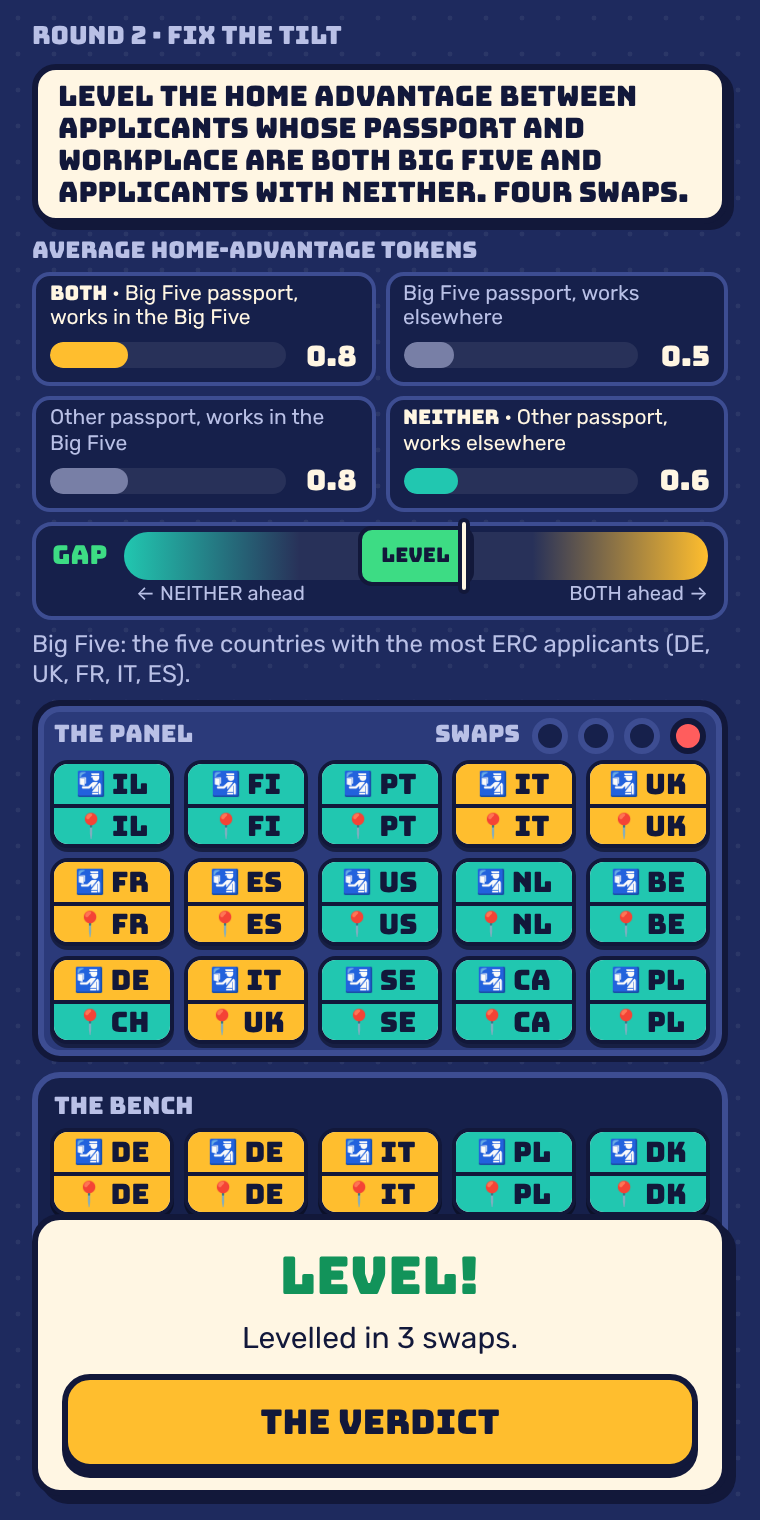
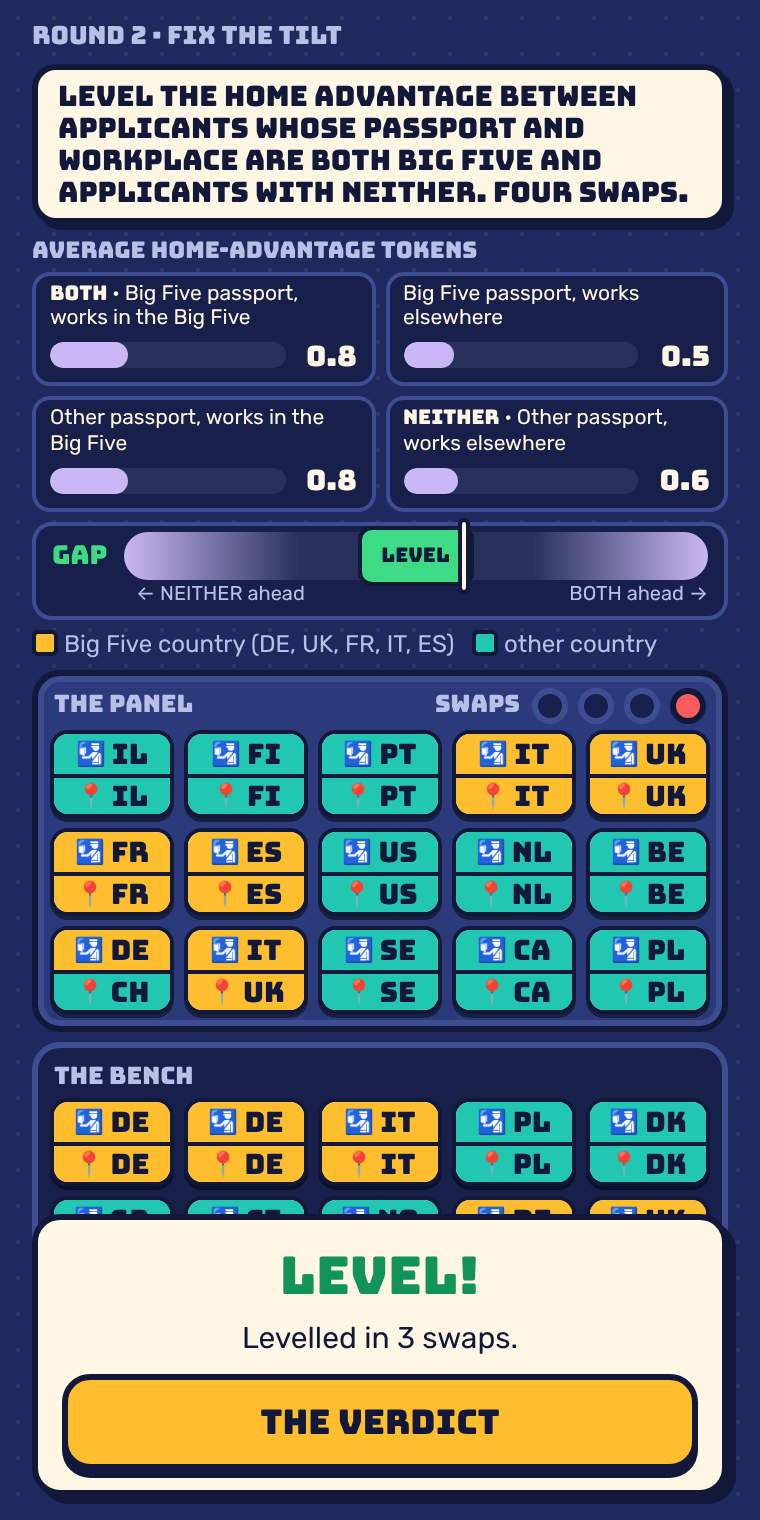
Home Judges, revision 4: the colour key rule
Yellow and teal mean Big Five / other country only. The key appears on every
screen that shows both colours (Round 1, Round 2) and nowhere else, replacing the
definition sentence there. Start screen: no key, no asterisk, the Big Five
introduced in plain words in the Round 2 line. Round 1 aim: Seat the 15 judges.
All four applicant bars one colour (lilac), the GAP meter's ends likewise.

Claude-Session: https://claude.ai/code/session_018niUhxY9ZsBGHUKZeJtQDn

diff --git a/homophily/home-judges.html b/homophily/home-judges.html
@@ -10,7 +10,7 @@
[1 lines of base64/hex data omitted]
 :root {
   --board: #1e2a5e; --board2: #16204b; --felt: #2b3a7a; --line: #3d4d92;
-  --big: #ffbe2e; --oth: #21c7b0; --star: #ff5d5d; --chalk: #fff6e3; --ok: #3ddc84;
+  --big: #ffbe2e; --oth: #21c7b0; --star: #ff5d5d; --chalk: #fff6e3; --ok: #3ddc84; --bar: #c9b8f5; /* --bar: the four applicant bars; yellow and teal are country colours only */
   --ink: #12183a; --dim: #b9c0e6;
   --emoji: 'Apple Color Emoji', 'Segoe UI Emoji', 'Noto Color Emoji', sans-serif;
 }
@@ -70,16 +70,14 @@ b { font-weight: 700; }
 .grow2 { display: flex; align-items: center; gap: 6px; margin-top: 3px; }
 .gtrack { position: relative; flex: 1; height: 13px; border-radius: 7px; background: rgba(255,255,255,.08); overflow: hidden; }
 .gfill { position: absolute; left: 0; top: 0; bottom: 0; width: 0; border-radius: 7px; transition: width .6s cubic-bezier(.3,1.3,.5,1); }
-.gcell.both .gfill { background: var(--big); } .gcell.neither .gfill { background: var(--oth); } .gcell.mixed .gfill { background: var(--dim); opacity: .55; }
-.gcell.mixed .gl { color: var(--dim); }
+.gcell .gfill { background: var(--bar); }
 .gcell .gk { font-family: 'Bungee', sans-serif; font-size: 10px; color: var(--chalk); }
-.gcell.mixed .gk { color: var(--dim); }
 .gnum { font-family: 'Bungee', sans-serif; font-size: 14px; min-width: 30px; text-align: right; }
 /* the GAP meter */
 .meter { background: var(--board2); border: 2px solid var(--line); border-radius: 10px; padding: 4px 8px 4px; }
 .mrow { display: flex; align-items: center; gap: 8px; }
 .mlab { font-family: 'Bungee', sans-serif; font-size: 13px; }
-.mtrack { position: relative; flex: 1; height: 24px; border-radius: 12px; background: linear-gradient(90deg, var(--oth) 0%, rgba(255,255,255,.08) 30%, rgba(255,255,255,.08) 70%, var(--big) 100%); }
+.mtrack { position: relative; flex: 1; height: 24px; border-radius: 12px; background: linear-gradient(90deg, var(--bar) 0%, rgba(255,255,255,.08) 30%, rgba(255,255,255,.08) 70%, var(--bar) 100%); } /* the ends are the bar colour, not the country colours */
 .mzone { position: absolute; top: -3px; bottom: -3px; background: var(--ok); border: 2px solid var(--ink); border-radius: 7px; display: flex; align-items: center; justify-content: center;
   font-family: 'Bungee', sans-serif; font-size: 10px; color: var(--ink); }
 .mmark { position: absolute; top: -7px; width: 6px; height: 38px; margin-left: -3px; background: var(--chalk); border: 2px solid var(--ink); border-radius: 3px; transition: left .6s cubic-bezier(.3,1.3,.5,1); z-index: 2; }
@@ -104,8 +102,9 @@ b { font-weight: 700; }
 /* Round 2 carries the most: tighter spacing so the board stays one viewport at 380 × 760 */
 #s-r2 { gap: 5px; } #s-r2 .aim { padding: 5px 10px; line-height: 1.15; } #s-r2 .jc { min-height: 44px; } #s-r2 .box { padding: 6px; }
 #s-r2 .boxhead { margin-bottom: 3px; } #s-r2 .gcell .gl { min-height: 0; } #s-r2 .gcell { padding: 3px 7px 4px; } #s-r2 .meter { padding: 3px 8px; }
-/* the Big Five definition (start screen: legend with colour key; elsewhere: the same words, no key) */
+/* .key: the colour key, on every screen that shows both country colours and nowhere else; .def: the Big Five sentence, on screens that say Big Five but show no key */
 .def { font-size: 12px; color: var(--dim); line-height: 1.25; }
+.key { font-size: 12px; color: var(--dim); line-height: 1.25; }
 .sw { display: inline-block; width: 13px; height: 13px; border-radius: 3px; border: 2px solid var(--ink); vertical-align: -2px; margin: 0 3px 0 0; }
 .sw.big { background: var(--big); } .sw.oth { background: var(--oth); }
 .about p { font-size: 12.5px; line-height: 1.3; margin: 0 0 6px; }
@@ -119,12 +118,11 @@ b { font-weight: 700; }
   <h1>HOME JUDGES</h1>
   <div class="aim">You choose a panel of 15 judges for ERC-style grant reviews.</div>
   <p><b>Round 1:</b> Seat 15 judges. See which applicants receive more home advantage.</p>
-  <p><b>Round 2:</b> Fix a tilted panel. Level the home advantage between applicants whose passport and workplace are both Big Five* and applicants with neither. Four swaps.</p>
+  <p><b>Round 2:</b> Fix a tilted panel. Level the home advantage between applicants whose passport and workplace are both in Germany, the UK, France, Italy or Spain (the "Big Five", the five countries with the most ERC applicants) and applicants with neither. Four swaps.</p>
   <div class="example" id="ex1"></div>
   <div class="example" id="ex2"></div>
   <p class="small dim">🛂 = passport, 📍 = where they work.</p>
   <div class="grow"></div>
-  <p class="def" id="legend">* Big Five: the five countries with the most ERC applicants (DE, UK, FR, IT, ES).<br><span class="sw big"></span>Big Five country &nbsp; <span class="sw oth"></span>other country</p>
   <button class="btn wide" id="b-play">PLAY</button>
   <button class="btn chalk sm wide" id="b-about0">ABOUT</button>
 </section>
@@ -146,7 +144,8 @@ b { font-weight: 700; }
 <!-- ROUND 1 -->
 <section class="screen" id="s-r1">
   <div class="tag">ROUND 1 · YOUR PANEL</div>
-  <div class="aim" id="aim-r1">Seat the 15 judges you think are fair.</div>
+  <div class="aim" id="aim-r1">Seat the 15 judges.</div>
+  <p class="key"><span class="sw big"></span>Big Five country (DE, UK, FR, IT, ES) &nbsp; <span class="sw oth"></span>other country</p>
   <div class="box"><div class="boxhead"><span>THE PANEL</span><span class="cnt" id="cnt1"></span></div><div class="grid g5" id="table1"></div></div>
   <div id="r1-pick">
     <div class="boxhead" style="margin-top:2px"><span>CANDIDATES · TAP TO SEAT</span></div>
@@ -156,8 +155,7 @@ b { font-weight: 700; }
     <div class="ghead">AVERAGE HOME-ADVANTAGE TOKENS</div>
     <div id="bars1"></div>
     <p class="small dim" style="margin:5px 0">Each bar is one applicant group: passport from the Big Five or elsewhere, crossed with workplace in the Big Five or elsewhere. Higher means more home advantage.</p>
-    <p id="r1-result" style="margin-bottom:6px"></p>
-    <p class="def" style="margin-bottom:8px">Big Five: the five countries with the most ERC applicants (DE, UK, FR, IT, ES).</p>
+    <p id="r1-result" style="margin-bottom:8px"></p>
     <button class="btn wide" id="b-r2">ROUND 2</button>
   </div>
 </section>
@@ -168,7 +166,7 @@ b { font-weight: 700; }
   <div class="aim">Level the home advantage between applicants whose passport and workplace are both Big Five and applicants with neither. Four swaps.</div>
   <div><div class="ghead">AVERAGE HOME-ADVANTAGE TOKENS</div><div id="bars2"></div></div>
   <div class="meter" id="meter"></div>
-  <p class="def">Big Five: the five countries with the most ERC applicants (DE, UK, FR, IT, ES).</p>
+  <p class="key"><span class="sw big"></span>Big Five country (DE, UK, FR, IT, ES) &nbsp; <span class="sw oth"></span>other country</p>
   <div class="instr" id="instr">Tap a judge in the panel, then one on the bench, to swap them.</div>
   <div class="box" id="tablebox2"><div class="boxhead"><span>THE PANEL</span><span class="row" style="gap:6px"><span>SWAPS</span><span class="pips" id="pips"></span></span></div><div class="grid g5" id="table2"></div></div>
   <div class="box bench" id="benchbox"><div class="boxhead"><span>THE BENCH</span></div><div class="grid g5" id="bench"></div></div>
@@ -433,9 +431,8 @@ if (typeof module !== 'undefined') module.exports = MECH;
   const LAB = { bigP_bigW: 'Big Five passport, works in the Big Five', bigP_othW: 'Big Five passport, works elsewhere',
     othP_bigW: 'Other passport, works in the Big Five', othP_othW: 'Other passport, works elsewhere' };
   const KEY = { bigP_bigW: 'BOTH', bigP_othW: '', othP_bigW: '', othP_othW: 'NEITHER' };
-  const KIND = { bigP_bigW: 'both', bigP_othW: 'mixed', othP_bigW: 'mixed', othP_othW: 'neither' };
   function buildBars(el) {
-    el.innerHTML = '<div class="ggrid">' + M.CELLS.map(k => `<div class="gcell ${KIND[k]}" data-cell="${k}"><div class="gl">${KEY[k] ? `<span class="gk">${KEY[k]}</span> · ` : ''}${LAB[k]}</div>` +
+    el.innerHTML = '<div class="ggrid">' + M.CELLS.map(k => `<div class="gcell" data-cell="${k}"><div class="gl">${KEY[k] ? `<span class="gk">${KEY[k]}</span> · ` : ''}${LAB[k]}</div>` +
       `<div class="grow2"><div class="gtrack"><div class="gfill"></div></div><div class="gnum"></div></div></div>`).join('') + '</div>';
   }
   function setBars(el, e) {

diff --git a/homophily/template.html b/homophily/template.html
@@ -10,7 +10,7 @@
 @font-face { font-family: 'Rubik'; src: url(data:font/woff2;base64,/*__FONT_RUBIK__*/) format('woff2'); font-weight: 300 900; font-display: block; }
 :root {
   --board: #1e2a5e; --board2: #16204b; --felt: #2b3a7a; --line: #3d4d92;
-  --big: #ffbe2e; --oth: #21c7b0; --star: #ff5d5d; --chalk: #fff6e3; --ok: #3ddc84;
+  --big: #ffbe2e; --oth: #21c7b0; --star: #ff5d5d; --chalk: #fff6e3; --ok: #3ddc84; --bar: #c9b8f5; /* --bar: the four applicant bars; yellow and teal are country colours only */
   --ink: #12183a; --dim: #b9c0e6;
   --emoji: 'Apple Color Emoji', 'Segoe UI Emoji', 'Noto Color Emoji', sans-serif;
 }
@@ -70,16 +70,14 @@ b { font-weight: 700; }
 .grow2 { display: flex; align-items: center; gap: 6px; margin-top: 3px; }
 .gtrack { position: relative; flex: 1; height: 13px; border-radius: 7px; background: rgba(255,255,255,.08); overflow: hidden; }
 .gfill { position: absolute; left: 0; top: 0; bottom: 0; width: 0; border-radius: 7px; transition: width .6s cubic-bezier(.3,1.3,.5,1); }
-.gcell.both .gfill { background: var(--big); } .gcell.neither .gfill { background: var(--oth); } .gcell.mixed .gfill { background: var(--dim); opacity: .55; }
-.gcell.mixed .gl { color: var(--dim); }
+.gcell .gfill { background: var(--bar); }
 .gcell .gk { font-family: 'Bungee', sans-serif; font-size: 10px; color: var(--chalk); }
-.gcell.mixed .gk { color: var(--dim); }
 .gnum { font-family: 'Bungee', sans-serif; font-size: 14px; min-width: 30px; text-align: right; }
 /* the GAP meter */
 .meter { background: var(--board2); border: 2px solid var(--line); border-radius: 10px; padding: 4px 8px 4px; }
 .mrow { display: flex; align-items: center; gap: 8px; }
 .mlab { font-family: 'Bungee', sans-serif; font-size: 13px; }
-.mtrack { position: relative; flex: 1; height: 24px; border-radius: 12px; background: linear-gradient(90deg, var(--oth) 0%, rgba(255,255,255,.08) 30%, rgba(255,255,255,.08) 70%, var(--big) 100%); }
+.mtrack { position: relative; flex: 1; height: 24px; border-radius: 12px; background: linear-gradient(90deg, var(--bar) 0%, rgba(255,255,255,.08) 30%, rgba(255,255,255,.08) 70%, var(--bar) 100%); } /* the ends are the bar colour, not the country colours */
 .mzone { position: absolute; top: -3px; bottom: -3px; background: var(--ok); border: 2px solid var(--ink); border-radius: 7px; display: flex; align-items: center; justify-content: center;
   font-family: 'Bungee', sans-serif; font-size: 10px; color: var(--ink); }
 .mmark { position: absolute; top: -7px; width: 6px; height: 38px; margin-left: -3px; background: var(--chalk); border: 2px solid var(--ink); border-radius: 3px; transition: left .6s cubic-bezier(.3,1.3,.5,1); z-index: 2; }
@@ -104,8 +102,9 @@ b { font-weight: 700; }
 /* Round 2 carries the most: tighter spacing so the board stays one viewport at 380 × 760 */
 #s-r2 { gap: 5px; } #s-r2 .aim { padding: 5px 10px; line-height: 1.15; } #s-r2 .jc { min-height: 44px; } #s-r2 .box { padding: 6px; }
 #s-r2 .boxhead { margin-bottom: 3px; } #s-r2 .gcell .gl { min-height: 0; } #s-r2 .gcell { padding: 3px 7px 4px; } #s-r2 .meter { padding: 3px 8px; }
-/* the Big Five definition (start screen: legend with colour key; elsewhere: the same words, no key) */
+/* .key: the colour key, on every screen that shows both country colours and nowhere else; .def: the Big Five sentence, on screens that say Big Five but show no key */
 .def { font-size: 12px; color: var(--dim); line-height: 1.25; }
+.key { font-size: 12px; color: var(--dim); line-height: 1.25; }
 .sw { display: inline-block; width: 13px; height: 13px; border-radius: 3px; border: 2px solid var(--ink); vertical-align: -2px; margin: 0 3px 0 0; }
 .sw.big { background: var(--big); } .sw.oth { background: var(--oth); }
 .about p { font-size: 12.5px; line-height: 1.3; margin: 0 0 6px; }
@@ -119,12 +118,11 @@ b { font-weight: 700; }
   <h1>HOME JUDGES</h1>
   <div class="aim">You choose a panel of 15 judges for ERC-style grant reviews.</div>
   <p><b>Round 1:</b> Seat 15 judges. See which applicants receive more home advantage.</p>
-  <p><b>Round 2:</b> Fix a tilted panel. Level the home advantage between applicants whose passport and workplace are both Big Five* and applicants with neither. Four swaps.</p>
+  <p><b>Round 2:</b> Fix a tilted panel. Level the home advantage between applicants whose passport and workplace are both in Germany, the UK, France, Italy or Spain (the "Big Five", the five countries with the most ERC applicants) and applicants with neither. Four swaps.</p>
   <div class="example" id="ex1"></div>
   <div class="example" id="ex2"></div>
   <p class="small dim">🛂 = passport, 📍 = where they work.</p>
   <div class="grow"></div>
-  <p class="def" id="legend">* Big Five: the five countries with the most ERC applicants (DE, UK, FR, IT, ES).<br><span class="sw big"></span>Big Five country &nbsp; <span class="sw oth"></span>other country</p>
   <button class="btn wide" id="b-play">PLAY</button>
   <button class="btn chalk sm wide" id="b-about0">ABOUT</button>
 </section>
@@ -146,7 +144,8 @@ b { font-weight: 700; }
 <!-- ROUND 1 -->
 <section class="screen" id="s-r1">
   <div class="tag">ROUND 1 · YOUR PANEL</div>
-  <div class="aim" id="aim-r1">Seat the 15 judges you think are fair.</div>
+  <div class="aim" id="aim-r1">Seat the 15 judges.</div>
+  <p class="key"><span class="sw big"></span>Big Five country (DE, UK, FR, IT, ES) &nbsp; <span class="sw oth"></span>other country</p>
   <div class="box"><div class="boxhead"><span>THE PANEL</span><span class="cnt" id="cnt1"></span></div><div class="grid g5" id="table1"></div></div>
   <div id="r1-pick">
     <div class="boxhead" style="margin-top:2px"><span>CANDIDATES · TAP TO SEAT</span></div>
@@ -156,8 +155,7 @@ b { font-weight: 700; }
     <div class="ghead">AVERAGE HOME-ADVANTAGE TOKENS</div>
     <div id="bars1"></div>
     <p class="small dim" style="margin:5px 0">Each bar is one applicant group: passport from the Big Five or elsewhere, crossed with workplace in the Big Five or elsewhere. Higher means more home advantage.</p>
-    <p id="r1-result" style="margin-bottom:6px"></p>
-    <p class="def" style="margin-bottom:8px">Big Five: the five countries with the most ERC applicants (DE, UK, FR, IT, ES).</p>
+    <p id="r1-result" style="margin-bottom:8px"></p>
     <button class="btn wide" id="b-r2">ROUND 2</button>
   </div>
 </section>
@@ -168,7 +166,7 @@ b { font-weight: 700; }
   <div class="aim">Level the home advantage between applicants whose passport and workplace are both Big Five and applicants with neither. Four swaps.</div>
   <div><div class="ghead">AVERAGE HOME-ADVANTAGE TOKENS</div><div id="bars2"></div></div>
   <div class="meter" id="meter"></div>
-  <p class="def">Big Five: the five countries with the most ERC applicants (DE, UK, FR, IT, ES).</p>
+  <p class="key"><span class="sw big"></span>Big Five country (DE, UK, FR, IT, ES) &nbsp; <span class="sw oth"></span>other country</p>
   <div class="instr" id="instr">Tap a judge in the panel, then one on the bench, to swap them.</div>
   <div class="box" id="tablebox2"><div class="boxhead"><span>THE PANEL</span><span class="row" style="gap:6px"><span>SWAPS</span><span class="pips" id="pips"></span></span></div><div class="grid g5" id="table2"></div></div>
   <div class="box bench" id="benchbox"><div class="boxhead"><span>THE BENCH</span></div><div class="grid g5" id="bench"></div></div>
@@ -232,9 +230,8 @@ b { font-weight: 700; }
   const LAB = { bigP_bigW: 'Big Five passport, works in the Big Five', bigP_othW: 'Big Five passport, works elsewhere',
     othP_bigW: 'Other passport, works in the Big Five', othP_othW: 'Other passport, works elsewhere' };
   const KEY = { bigP_bigW: 'BOTH', bigP_othW: '', othP_bigW: '', othP_othW: 'NEITHER' };
-  const KIND = { bigP_bigW: 'both', bigP_othW: 'mixed', othP_bigW: 'mixed', othP_othW: 'neither' };
   function buildBars(el) {
-    el.innerHTML = '<div class="ggrid">' + M.CELLS.map(k => `<div class="gcell ${KIND[k]}" data-cell="${k}"><div class="gl">${KEY[k] ? `<span class="gk">${KEY[k]}</span> · ` : ''}${LAB[k]}</div>` +
+    el.innerHTML = '<div class="ggrid">' + M.CELLS.map(k => `<div class="gcell" data-cell="${k}"><div class="gl">${KEY[k] ? `<span class="gk">${KEY[k]}</span> · ` : ''}${LAB[k]}</div>` +
       `<div class="grow2"><div class="gtrack"><div class="gfill"></div></div><div class="gnum"></div></div></div>`).join('') + '</div>';
   }
   function setBars(el, e) {

diff --git a/homophily/session-test.js b/homophily/session-test.js
@@ -29,7 +29,6 @@ const W = 380, H = 760;
   console.log('  badge label: ' + await p.$eval('#ex1 .jc', e => e.getAttribute('aria-label')));
   console.log('  help screen or ? button present:', await p.$$eval('#s-help, .q, [data-help]', x => x.length));
   // iteration 3: the legend, the colours, the citation and the definition on every screen that says "Big Five"
-  console.log('  legend: ' + await txt('#legend'));
   const bg = async (pp, ww) => { const c = await p.evaluate(([pp, ww]) => { const b = document.createElement('button'); b.className = 'jc'; const M2 = window.MECH; const grp = c => M2.isBig(c) ? 'big' : 'oth'; return grp(pp) + '/' + grp(ww); }, [pp, ww]); return c; };
   const colourOf = async (pp, ww) => p.evaluate(([pp, ww]) => { const e = document.querySelector(`.jc[data-p="${pp}"][data-w="${ww}"] .ln.p`); return e && getComputedStyle(e).backgroundColor; }, [pp, ww]);
   const checkColours = async () => {
@@ -38,13 +37,23 @@ const W = 380, H = 760;
     console.log(`  badge colours: US ${us} | CA ${ca} | NL ${nl} | DE ${de} -> ${okc ? 'US and CA coloured like other non-Big-Five countries' : 'MISMATCH'}`);
     if (!okc) errs.push('badge colours: US/CA not coloured like other non-Big-Five countries');
   };
+  // revision 4: the colour key on every screen that shows both country colours and nowhere else; where the key is shown,
+  // no "Big Five: ..." sentence; where a screen says Big Five without the key, the sentence (or, on the start screen, the
+  // plain-words introduction); the four bars one colour, neither yellow nor teal
   const checkDef = async name => {
     const r = await p.evaluate(() => { const s = document.querySelector('.screen.on'); const txt = s.innerText; const says = /Big Five/.test(txt);
-      const def = /Big Five: the five countries with the most ERC applicants \(DE, UK, FR, IT, ES\)/.test(txt); return { says, def, star: /Big Five\*/.test(txt), key: !!s.querySelector('.sw') }; });
-    console.log(`  [${name}] says "Big Five": ${r.says} | definition present: ${r.def} | asterisk: ${r.star} | colour key: ${r.key}`);
-    if (r.says && !r.def) errs.push(name + ': mentions the Big Five without the definition');
-    if (name !== 'start' && (r.star || r.key)) errs.push(name + ': asterisk or colour key outside the start screen');
-    if (name === 'start' && !(r.star && r.key)) errs.push('start: asterisk or colour key missing');
+      const cols = new Set([...s.querySelectorAll('.jc .ln.p, .jc .ln.w')].filter(e => e.offsetParent).map(e => getComputedStyle(e).backgroundColor));
+      const fills = [...s.querySelectorAll('.gfill')].filter(e => e.offsetParent).map(e => getComputedStyle(e).backgroundColor);
+      const big = getComputedStyle(document.documentElement).getPropertyValue('--big').trim(), oth = getComputedStyle(document.documentElement).getPropertyValue('--oth').trim();
+      const hex = h => { const n = parseInt(h.slice(1), 16); return `rgb(${n >> 16}, ${(n >> 8) & 255}, ${n & 255})`; };
+      return { says, def: /Big Five: the five countries with the most ERC applicants/.test(txt), intro: /the "Big Five", the five countries with the most ERC applicants/.test(txt),
+        star: /Big Five\*/.test(txt), key: !!s.querySelector('.key .sw'), bothColours: cols.size >= 2, fills: [...new Set(fills)], bigRgb: hex(big), othRgb: hex(oth) }; });
+    console.log(`  [${name}] says "Big Five": ${r.says} | both country colours on screen: ${r.bothColours} | colour key: ${r.key} | definition: ${r.def} | intro: ${r.intro} | asterisk: ${r.star}${r.fills.length ? ' | bar fills: ' + r.fills.join(' ') : ''}`);
+    if (r.bothColours !== r.key) errs.push(name + ': the colour key must be shown exactly when both country colours are');
+    if (r.key && r.def) errs.push(name + ': the definition sentence next to the key');
+    if (r.says && !r.key && !r.def && !r.intro) errs.push(name + ': says Big Five without the key, the sentence or the introduction');
+    if (r.star) errs.push(name + ': asterisk');
+    if (r.fills.length > 1 || r.fills.some(c => c === r.bigRgb || c === r.othRgb)) errs.push(name + ': bars not one colour, or yellow/teal');
   };
   await checkDef('start');
   const h = require('fs').readFileSync(__dirname + '/home-judges.html', 'utf8');

diff --git a/homophily/memo.md b/homophily/memo.md
@@ -172,3 +172,12 @@ Four changes, all in; where this section disagrees with §§11–21, this sectio
 - **Recalibration.** The puzzle holds at the old settings (LEVEL ±0.3 tokens, four swaps, meter ±1.5): the tilted panel starts at a gap of 1.09 tokens (was 1.03), no 1- or 2-swap plan levels, 3.2% of four-swap plans level (was 4.3%), 49% of plans that bench four Big Five home judges (was 59%; the check's threshold lowered from 50% to 40%), benching only smaller-country judges never levels. The example solution DE/DE→IL, DE/DE→FI, IT/IT→PT now levels in three swaps (gap 0.2), so the session test's fourth swap is conditional. The simulation check now simulates the BOTH and NEITHER groups. **Calibration: ALL PASS, 31 checks** (29 before, plus the US/CA check and two for the new gap).
 - **Screens.** Round 2 carries the most (the longer aim, the definition line) and overflowed 380 × 760 by 43 px; a block of Round-2-only spacing rules (gap 5 px, badges 44 px, tighter box and meter padding) brings it back to one viewport. The GAP meter has no third line: the aim above it says what the gap compares, the ends say it again. The About screen's closing line is now "Built from the paper." without the beta/builder-review wording, per the skill's rule for gift games (that note lives in `author-note.md` only). `session-test.js`: every screen fits, no console errors.
 
+## 23. Revision 4: Felix Holub's third prompt (the colour key)
+The general rule: yellow and teal mean "Big Five country" and "other country", nothing else. The colour key (yellow swatch = Big Five country (DE, UK, FR, IT, ES), teal swatch = other country) appears on every screen that shows both colours and nowhere else; where the key is shown, the sentence "Big Five: the five countries with the most ERC applicants (DE, UK, FR, IT, ES)" is dropped. Where this disagrees with §22, this section holds.
+- **Start screen.** No key (the two example badges are both yellow), no asterisk, no note at the bottom. The concept is introduced in the Round 2 line where it first appears, in plain words: "applicants whose passport and workplace are both in Germany, the UK, France, Italy or Spain (the "Big Five", the five countries with the most ERC applicants)".
+- **Round 1.** Aim: "Seat the 15 judges." The key sits under the aim (and stays when the aim gives way to the reveal). The definition line under the reveal is gone.
+- **Round 2.** The definition line under the meter is now the key.
+- **The verdict and About** mention the Big Five and show no country colours, so they keep the sentence from §22 and get no key.
+- **The bars.** All four applicant bars are one colour, lilac (`--bar: #c9b8f5`), on both screens; the BOTH / NEITHER key words stay. The GAP meter's track used the same teal-to-yellow run for NEITHER-to-BOTH, which is the same clash the bars had, so its ends are lilac too; the words at the ends carry the direction.
+- **Checks.** `session-test.js` now reads, on every screen, whether both country colours are on it, whether a key is on it (the two must agree), whether the definition sentence sits beside a key (must not), that no asterisk remains, and that the visible bar fills are one colour and neither yellow nor teal. Every screen fits 380 × 760; no console errors. Mechanism unchanged; calibration unchanged (31 checks).
+

diff --git a/homophily/author-note.md b/homophily/author-note.md
@@ -4,4 +4,4 @@
 2. Everything is in the `CONFIG` block at the top of `mechanism.js`, the only copy of the mechanism: the embedded applicant file, the token rule (3 / 1 / 0), the three rosters, the swap budget, the LEVEL zone (±0.3 tokens) and the meter's range. Edit, run `node calibration.js` (31 checks), then `python3 build.py`, which refuses to finish if the embedded mechanism differs from the file.
 3. What we were least sure about: (a) the token rule is a game scale, not the paper's estimates (with the paper's own relative sizes the same lessons hold; see calibration §6); (b) judges are drawn at random from the panel, while the ERC assigns by expertise; (c) the rosters are hand-curated from the panel-member file, and the LEVEL zone and four swaps are game choices. The applicant file has 30 rows, not the 50 the brief mentioned; all 30 are used.
 
-Iteration 2 (tokens, the authors' data, a fixed phone screen) is described in memo §21; revision 3 (the published citation, the Big Five legend and colour key, the US coloured like every other non-Big-Five country, the gap as BOTH minus NEITHER) in memo §22. The citation has no volume or page numbers yet; add them if the article has been assigned to an issue. This game has had the builder's review only: screenshots and a scripted browser session at 380 × 760. It has not been played by real strangers.
+Iteration 2 (tokens, the authors' data, a fixed phone screen) is described in memo §21; revision 3 (the published citation, the Big Five legend and colour key, the US coloured like every other non-Big-Five country, the gap as BOTH minus NEITHER) in memo §22; revision 4 (the colour key shown exactly where both country colours are, the Big Five introduced in plain words on the start screen, the bars and the meter in lilac) in memo §23. The citation has no volume or page numbers yet; add them if the article has been assigned to an issue. This game has had the builder's review only: screenshots and a scripted browser session at 380 × 760. It has not been played by real strangers.
